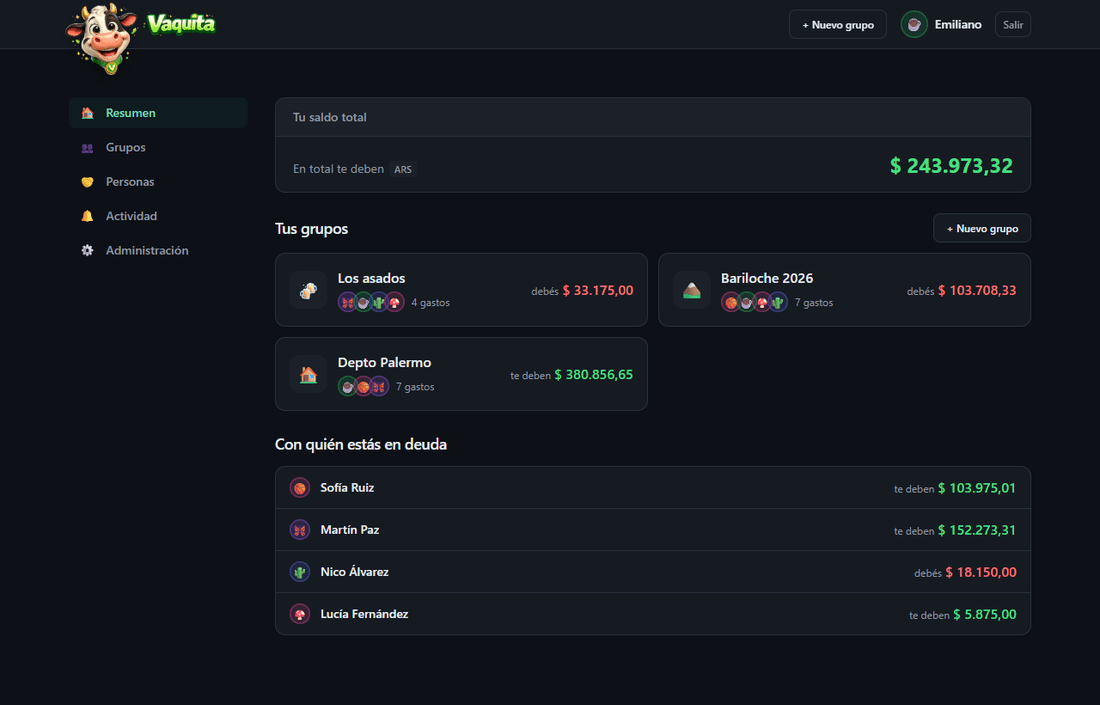
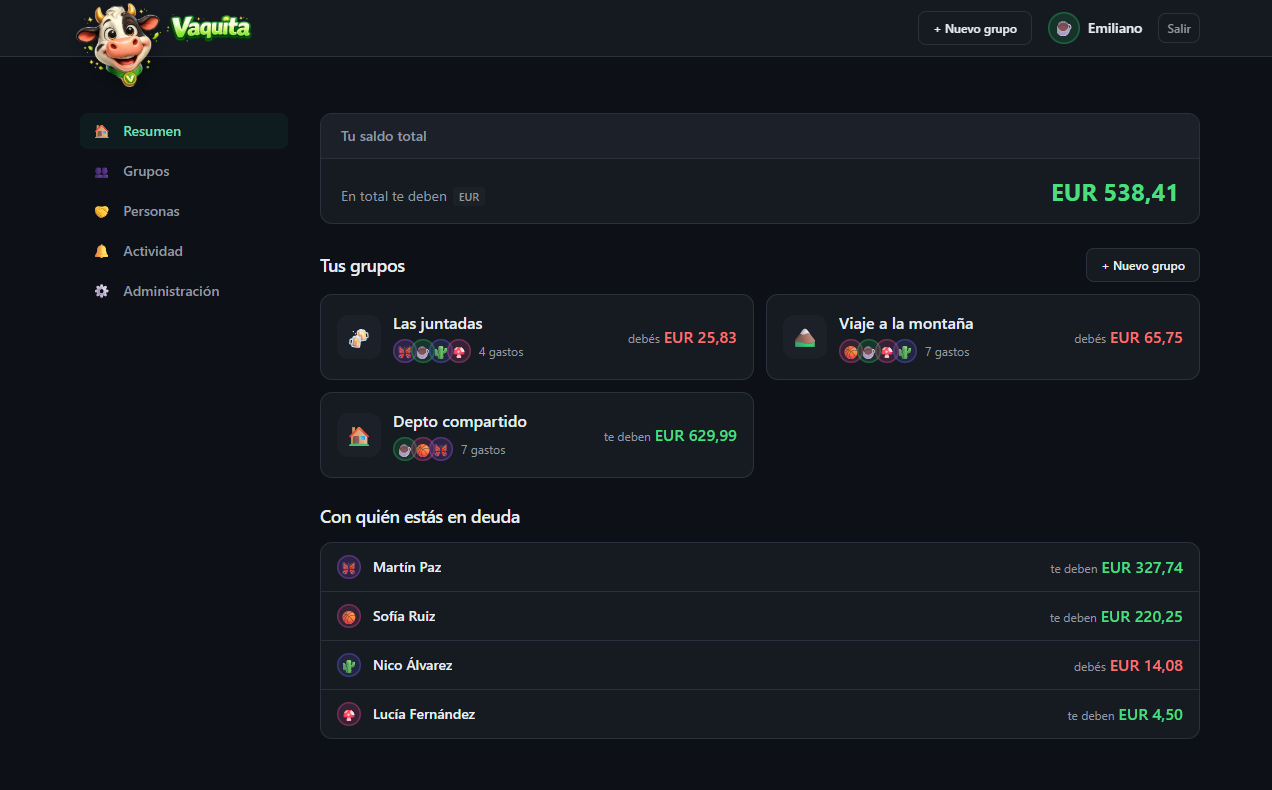
Arranque del readme centrado en el problema que resuelve
Los datos de ejemplo dejan de ser tan locales y las capturas se rehacen
con ellos.

diff --git a/prisma/seed.ts b/prisma/seed.ts
@@ -24,10 +24,10 @@ const PEOPLE = [
     name: "Emiliano",
     email: process.env.BOOTSTRAP_ADMIN_EMAIL || "emi@ejemplo.com",
     isAdmin: true,
-    payAlias: "emiliano.vaquita.mp",
+    payAlias: "emiliano.pagos",
   },
-  { name: "Sofía Ruiz", email: "sofia@ejemplo.com", isAdmin: false, payAlias: "sofiaruiz.mp" },
-  { name: "Martín Paz", email: "martin@ejemplo.com", isAdmin: false, payAlias: "0000003100010000000001" },
+  { name: "Sofía Ruiz", email: "sofia@ejemplo.com", isAdmin: false, payAlias: "sofia.ruiz" },
+  { name: "Martín Paz", email: "martin@ejemplo.com", isAdmin: false, payAlias: "1234 5678 9012 3456 7890" },
   { name: "Lucía Fernández", email: "lucia@ejemplo.com", isAdmin: false, payAlias: "luchi.fernandez" },
   { name: "Nico Álvarez", email: "nico@ejemplo.com", isAdmin: false, payAlias: null },
 ];
@@ -78,9 +78,9 @@ async function main() {
   // ------------------------------------------------------------- grupo depto
   const depto = await prisma.group.create({
     data: {
-      name: "Depto Palermo",
+      name: "Depto compartido",
       emoji: "🏠",
-      currency: "ARS",
+      currency: "EUR",
       simplifyDebts: true,
       createdById: emi.id,
       members: {
@@ -93,12 +93,12 @@ async function main() {
     },
   });
 
-  // -------------------------------------------------------- grupo Bariloche
+  // ----------------------------------------------------------- grupo viaje
   const viaje = await prisma.group.create({
     data: {
-      name: "Bariloche 2026",
+      name: "Viaje a la montaña",
       emoji: "🏔",
-      currency: "ARS",
+      currency: "EUR",
       simplifyDebts: true,
       createdById: sofia.id,
       members: {
@@ -112,12 +112,12 @@ async function main() {
     },
   });
 
-  // ---------------------------------------------------------- grupo asados
-  const asados = await prisma.group.create({
+  // -------------------------------------------------------- grupo juntadas
+  const juntadas = await prisma.group.create({
     data: {
-      name: "Los asados",
+      name: "Las juntadas",
       emoji: "🍻",
-      currency: "ARS",
+      currency: "EUR",
       simplifyDebts: false,
       createdById: martin.id,
       members: {
@@ -144,33 +144,33 @@ async function main() {
     notes?: string;
   };
 
-  const groupIds: Record<string, string> = { depto: depto.id, viaje: viaje.id, asados: asados.id };
-  const currencyOf: Record<string, string> = { depto: "ARS", viaje: "ARS", asados: "ARS" };
+  const groupIds: Record<string, string> = { depto: depto.id, viaje: viaje.id, juntadas: juntadas.id };
+  const currencyOf: Record<string, string> = { depto: "EUR", viaje: "EUR", juntadas: "EUR" };
 
   const seeds: Seed[] = [
     // Depto
-    { group: "depto", description: "Alquiler de agosto", amount: 890_000, category: "alquiler", daysAgo: 28, payer: emi.id, among: [emi.id, sofia.id, martin.id] },
-    { group: "depto", description: "Expensas", amount: 145_500, category: "servicios", daysAgo: 27, payer: sofia.id, among: [emi.id, sofia.id, martin.id] },
-    { group: "depto", description: "Internet Fibertel", amount: 38_900, category: "servicios", daysAgo: 24, payer: martin.id, among: [emi.id, sofia.id, martin.id] },
-    { group: "depto", description: "Súper de la semana", amount: 96_340, category: "super", daysAgo: 18, payer: sofia.id, among: [emi.id, sofia.id, martin.id] },
-    { group: "depto", description: "Luz y gas", amount: 62_180, category: "servicios", daysAgo: 12, payer: emi.id, among: [emi.id, sofia.id, martin.id] },
-    { group: "depto", description: "Cosas de limpieza", amount: 27_450, category: "compras", daysAgo: 6, payer: martin.id, among: [emi.id, sofia.id, martin.id] },
-    { group: "depto", description: "Súper de la semana", amount: 88_200, category: "super", daysAgo: 3, payer: emi.id, among: [emi.id, sofia.id, martin.id] },
+    { group: "depto", description: "Alquiler del mes", amount: 1_200, category: "alquiler", daysAgo: 28, payer: emi.id, among: [emi.id, sofia.id, martin.id] },
+    { group: "depto", description: "Gastos del edificio", amount: 180, category: "servicios", daysAgo: 27, payer: sofia.id, among: [emi.id, sofia.id, martin.id] },
+    { group: "depto", description: "Internet", amount: 45, category: "servicios", daysAgo: 24, payer: martin.id, among: [emi.id, sofia.id, martin.id] },
+    { group: "depto", description: "Súper de la semana", amount: 120, category: "super", daysAgo: 18, payer: sofia.id, among: [emi.id, sofia.id, martin.id] },
+    { group: "depto", description: "Luz y gas", amount: 85, category: "servicios", daysAgo: 12, payer: emi.id, among: [emi.id, sofia.id, martin.id] },
+    { group: "depto", description: "Cosas de limpieza", amount: 32, category: "compras", daysAgo: 6, payer: martin.id, among: [emi.id, sofia.id, martin.id] },
+    { group: "depto", description: "Súper de la semana", amount: 96, category: "super", daysAgo: 3, payer: emi.id, among: [emi.id, sofia.id, martin.id] },
 
-    // Bariloche
-    { group: "viaje", description: "Cabaña 4 noches", amount: 1_240_000, category: "alojamiento", daysAgo: 45, payer: sofia.id, among: [sofia.id, emi.id, lucia.id, nico.id], notes: "Seña pagada en junio, resto al llegar." },
-    { group: "viaje", description: "Pasajes de micro", amount: 520_000, category: "transporte", daysAgo: 44, payer: emi.id, among: [sofia.id, emi.id, lucia.id, nico.id] },
-    { group: "viaje", description: "Alquiler de auto", amount: 310_000, category: "transporte", daysAgo: 40, payer: nico.id, among: [sofia.id, emi.id, lucia.id, nico.id] },
-    { group: "viaje", description: "Súper para la cabaña", amount: 187_600, category: "super", daysAgo: 39, payer: lucia.id, among: [sofia.id, emi.id, lucia.id, nico.id] },
-    { group: "viaje", description: "Cena en El Boliche de Alberto", amount: 164_800, category: "comida", daysAgo: 38, payer: emi.id, among: [sofia.id, emi.id, lucia.id, nico.id] },
-    { group: "viaje", description: "Pases de esquí", amount: 940_000, category: "entretenimiento", daysAgo: 37, payer: sofia.id, among: [sofia.id, emi.id, nico.id], notes: "Lucía no esquió." },
-    { group: "viaje", description: "Nafta", amount: 78_300, category: "transporte", daysAgo: 36, payer: nico.id, among: [sofia.id, emi.id, lucia.id, nico.id] },
+    // Viaje
+    { group: "viaje", description: "Casa 4 noches", amount: 960, category: "alojamiento", daysAgo: 45, payer: sofia.id, among: [sofia.id, emi.id, lucia.id, nico.id], notes: "Seña pagada en junio, resto al llegar." },
+    { group: "viaje", description: "Pasajes de tren", amount: 420, category: "transporte", daysAgo: 44, payer: emi.id, among: [sofia.id, emi.id, lucia.id, nico.id] },
+    { group: "viaje", description: "Alquiler de auto", amount: 260, category: "transporte", daysAgo: 40, payer: nico.id, among: [sofia.id, emi.id, lucia.id, nico.id] },
+    { group: "viaje", description: "Súper para la casa", amount: 145, category: "super", daysAgo: 39, payer: lucia.id, among: [sofia.id, emi.id, lucia.id, nico.id] },
+    { group: "viaje", description: "Cena del sábado", amount: 128, category: "comida", daysAgo: 38, payer: emi.id, among: [sofia.id, emi.id, lucia.id, nico.id] },
+    { group: "viaje", description: "Pases de esquí", amount: 720, category: "entretenimiento", daysAgo: 37, payer: sofia.id, among: [sofia.id, emi.id, nico.id], notes: "Lucía no esquió." },
+    { group: "viaje", description: "Combustible", amount: 62, category: "transporte", daysAgo: 36, payer: nico.id, among: [sofia.id, emi.id, lucia.id, nico.id] },
 
-    // Asados
-    { group: "asados", description: "Carne y achuras", amount: 142_000, category: "comida", daysAgo: 21, payer: martin.id, among: [martin.id, emi.id, nico.id, lucia.id] },
-    { group: "asados", description: "Bebidas y hielo", amount: 58_400, category: "salidas", daysAgo: 21, payer: emi.id, among: [martin.id, emi.id, nico.id, lucia.id] },
-    { group: "asados", description: "Asado de despedida", amount: 196_500, category: "comida", daysAgo: 9, payer: nico.id, among: [martin.id, emi.id, nico.id, lucia.id], splitType: "SHARES", weights: [2, 1, 2, 1], notes: "Martín y Nico vinieron con la familia." },
-    { group: "asados", description: "Postre y café", amount: 34_900, category: "comida", daysAgo: 9, payer: lucia.id, among: [martin.id, emi.id, nico.id, lucia.id] },
+    // Juntadas
+    { group: "juntadas", description: "Compras para la cena", amount: 110, category: "comida", daysAgo: 21, payer: martin.id, among: [martin.id, emi.id, nico.id, lucia.id] },
+    { group: "juntadas", description: "Bebidas y hielo", amount: 45, category: "salidas", daysAgo: 21, payer: emi.id, among: [martin.id, emi.id, nico.id, lucia.id] },
+    { group: "juntadas", description: "Cena de despedida", amount: 152, category: "comida", daysAgo: 9, payer: nico.id, among: [martin.id, emi.id, nico.id, lucia.id], splitType: "SHARES", weights: [2, 1, 2, 1], notes: "Martín y Nico vinieron con la familia." },
+    { group: "juntadas", description: "Postre y café", amount: 27, category: "comida", daysAgo: 9, payer: lucia.id, among: [martin.id, emi.id, nico.id, lucia.id] },
   ];
 
   console.log(`Creando ${seeds.length} gastos…`);
@@ -224,9 +224,9 @@ async function main() {
 
   console.log("Creando pagos…");
   const settlements = [
-    { groupId: depto.id, from: martin.id, to: emi.id, amount: 210_000, daysAgo: 10 },
-    { groupId: viaje.id, from: lucia.id, to: sofia.id, amount: 400_000, daysAgo: 20, note: "Transferencia" },
-    { groupId: viaje.id, from: emi.id, to: sofia.id, amount: 150_000, daysAgo: 5, note: "MercadoPago" },
+    { groupId: depto.id, from: martin.id, to: emi.id, amount: 165, daysAgo: 10 },
+    { groupId: viaje.id, from: lucia.id, to: sofia.id, amount: 310, daysAgo: 20, note: "Transferencia" },
+    { groupId: viaje.id, from: emi.id, to: sofia.id, amount: 120, daysAgo: 5, note: "En efectivo" },
   ];
 
   for (const s of settlements) {
@@ -236,7 +236,7 @@ async function main() {
         fromUserId: s.from,
         toUserId: s.to,
         amountCents: BigInt(s.amount) * 100n,
-        currency: "ARS",
+        currency: "EUR",
         date: daysAgo(s.daysAgo),
         note: s.note ?? null,
         createdById: s.from,
@@ -255,7 +255,7 @@ async function main() {
           fromName: settlement.from.name,
           toName: settlement.to.name,
           amountCents: settlement.amountCents.toString(),
-          currency: "ARS",
+          currency: "EUR",
         },
       },
     });
@@ -263,7 +263,7 @@ async function main() {
 
   console.log("Creando comentarios…");
   const alquiler = await prisma.expense.findFirstOrThrow({
-    where: { groupId: depto.id, description: "Alquiler de agosto" },
+    where: { groupId: depto.id, description: "Alquiler del mes" },
   });
   await prisma.comment.createMany({
     data: [

diff --git a/README.md b/README.md
@@ -16,7 +16,23 @@
 
 ---
 
-Registro cerrado por invitación, sin apps de terceros, sin límites de free tier.
+## Por qué existe
+
+Armás el grupo para el viaje, empezás a cargar gastos, y cuando por fin se suman
+los que faltaban resulta que sólo cuentan desde ahí en adelante: todo lo anterior
+quedó dividido entre los que estaban. Para arreglarlo hay que editar gasto por
+gasto a mano, o dejar las cuentas mal.
+
+Vaquita nació de esa bronca. Podés recalcular los gastos ya cargados para incluir
+a quien llegó tarde, viendo cómo quedan los saldos antes y después de aplicarlo.
+
+Lo demás sale de autoalojarlo: sin publicidad, sin cuenta premium, sin límite de
+gastos por mes, y con quién le debe cuánto a quién guardado en tu servidor y no
+en el de otro. El registro es cerrado, por invitación.
+
+**Los importes se guardan como enteros en centavos y se reparten por el método del
+resto mayor**, así la suma de las partes da siempre exactamente el total del gasto.
+No se pierde ni se inventa un centavo.
 
 <p align="center">
   <img src="docs/captura-resumen.png" alt="Pantalla de resumen: saldo total, grupos y con quién estás en deuda" width="820">
@@ -28,9 +44,8 @@ Registro cerrado por invitación, sin apps de terceros, sin límites de free tie
   <sub>Adentro de un grupo: quién le debe a quién, ya simplificado, y el botón para saldar de un click.</sub>
 </p>
 
-> Este archivo es cómo levantarlo y desplegarlo.
-> [`CONTEXT.md`](CONTEXT.md) explica por qué las cosas son como son y qué se decidió no hacer.
-> [`AGENTS.md`](AGENTS.md) es la guía para trabajar en el código.
+> [`CONTEXT.md`](CONTEXT.md) explica por qué las cosas son como son y qué se decidió
+> no hacer. [`AGENTS.md`](AGENTS.md) es la guía para trabajar en el código.
 
 ## Qué hace
 
@@ -57,12 +72,6 @@ Registro cerrado por invitación, sin apps de terceros, sin límites de free tie
 | Estilos | Tailwind CSS 4 |
 | Auth | Sesiones propias en cookie httpOnly + bcrypt |
 | Deploy | Docker (multi-stage) → Coolify |
-
-### Cómo se maneja la plata
-
-Todos los importes se guardan como **enteros en centavos** (`BigInt`), nunca
-como float. El reparto usa el método del resto mayor, así la suma de las partes
-da siempre exactamente el total del gasto — no se pierde ni se inventa un centavo.
 
 ## Desarrollo local
 
